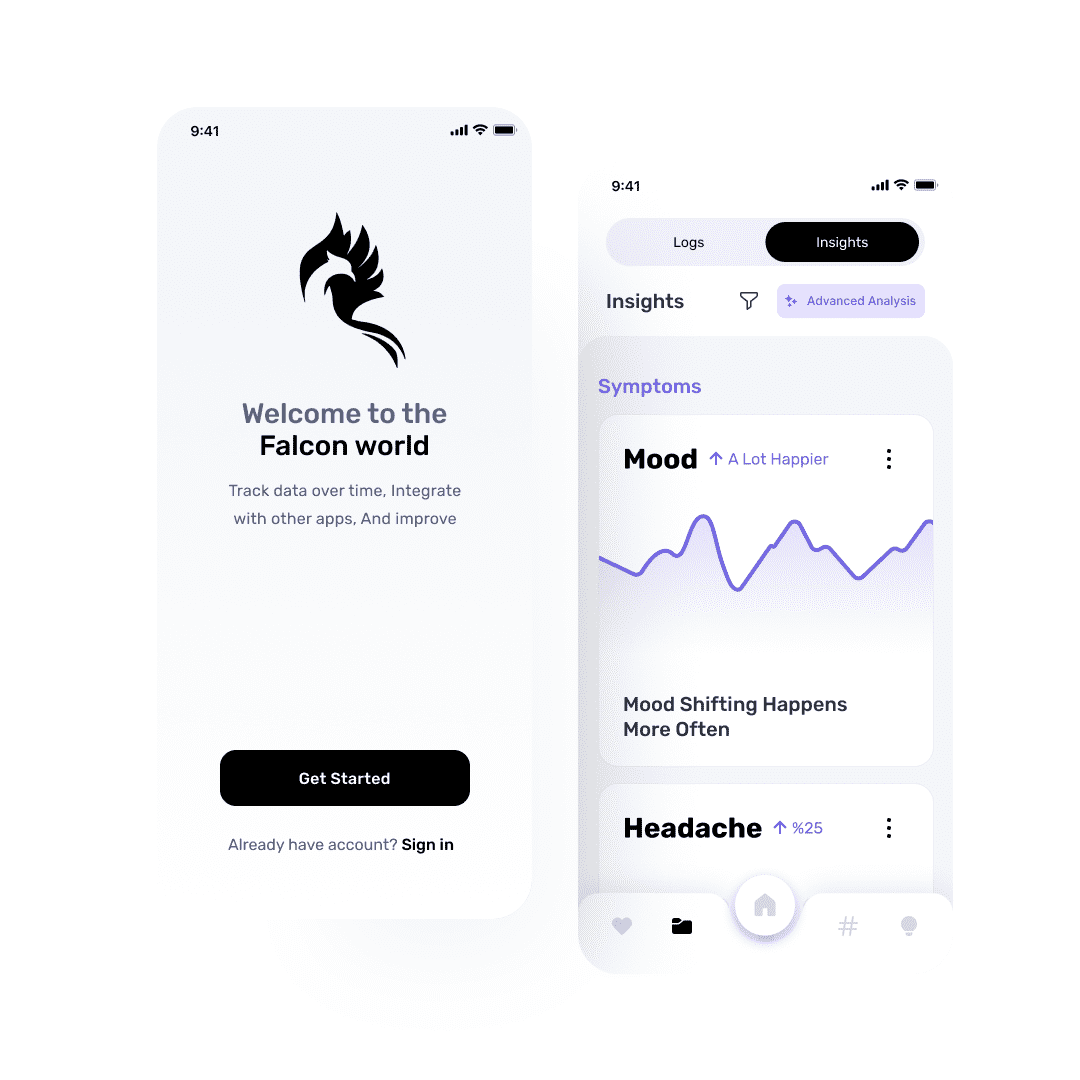
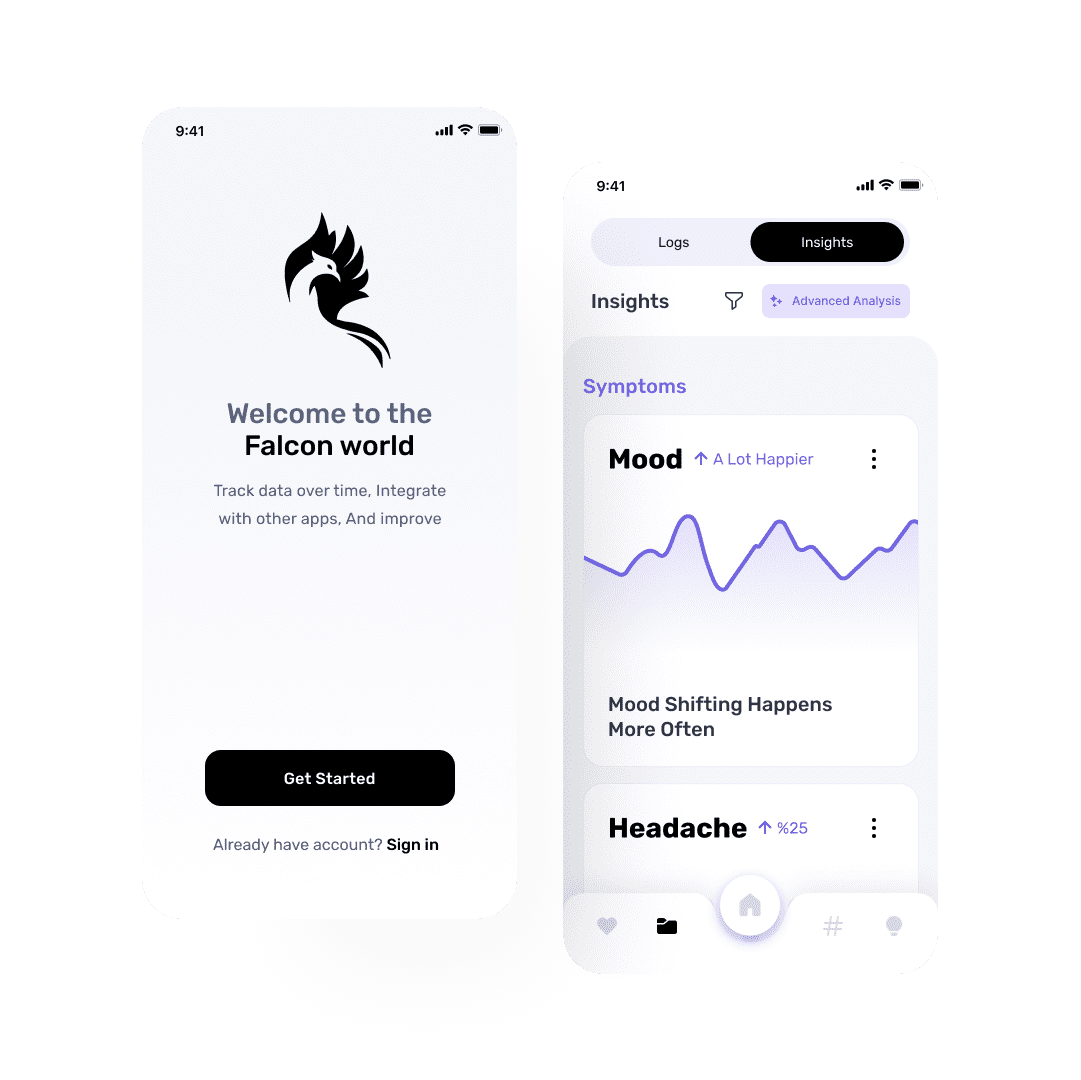
Change image sizes

diff --git a/src/screens/Home/Hero/Hero.module.sass b/src/screens/Home/Hero/Hero.module.sass
@@ -54,24 +54,24 @@
 
 .gallery
     position: absolute
-    top: 50%
+    top: 43%
     right: calc(50% - 700px)
-    width: 750px
+    width: 550px
     transform: translateY(-58%)
     pointer-events: none
     +x
         right: calc(50% - 600px)
-        width: 750px
+        width: 550px
     +d
         right: calc(50% - 600px)
-        width: 750px
+        width: 550px
     +t
         right: calc(50% - 575px)
     +m
         position: relative
         top: auto
         right: auto
-        left: -122px
+        left: -12px
         margin: 0 auto
         transform: translate(0,0)
         pointer-events: all
@@ -79,7 +79,7 @@
         position: relative
         top: auto
         right: auto
-        left: -174px
+        left: -24px
         margin: 0 auto
         transform: translate(0,0)
         pointer-events: all
@@ -87,7 +87,7 @@
         position: relative
         top: auto
         right: auto
-        left: -204px
+        left: -49px
         margin: 0 auto
         transform: translate(0,0)
         pointer-events: all
@@ -95,7 +95,7 @@
         position: relative
         top: auto
         right: auto
-        left: -214px
+        left: -49px
         margin: 0 auto
         transform: translate(0,0)
         pointer-events: all
@@ -122,7 +122,7 @@
     &:not(:first-child)
         position: absolute
     img
-        width: 120%
+        width: 100%
 
 
 .category

diff --git a/src/components/Intro/index.js b/src/components/Intro/index.js
@@ -11,13 +11,7 @@ const Intro = ({ scrollToRef }) => {
             <div className={cn("container", styles.container)}>
                 <div className={styles.gallery}>
                     <ScrollParallax className={styles.preview} animateIn="fadeInUp">
-                        <Image
-                            srcSet="/images/content/app-tracker.png 2x"
-                            src="/images/content/app-tracker.png"
-                            alt="Bag"
-                            width={570}
-                            height={570}
-                        />
+                        <Image src="/images/content/app-tracker.png" alt="app tracker" width={512} height={512} />
                     </ScrollParallax>
                 </div>
                 <div className={styles.wrap}>

diff --git a/src/components/Intro/Intro.module.sass b/src/components/Intro/Intro.module.sass
@@ -40,7 +40,7 @@
     position: absolute
     top: 43%
     right: calc(50% - 541px)
-    width: 584px
+    width: 542px
     background-color: rgba(240, 240, 240, 1)
     +dark
         background: #4e4e4e
@@ -48,7 +48,7 @@
     pointer-events: none
     +d
         right: calc(50% - 540px)
-        width: 584px
+        width: 542px
         transform: translateY(-44%)
     +t
         right: calc(50% - 515px)
@@ -70,14 +70,14 @@
         position: relative
         top: auto
         right: auto
-        left: -68px
+        left: -36px
         margin: 96px auto 24px
         transform: translateY(0)
     +s
         position: relative
         top: auto
         right: auto
-        left: -105px
+        left: -100px
         margin: 96px auto 24px
         transform: translateY(0)
 

diff --git a/src/screens/Home/Hero/index.js b/src/screens/Home/Hero/index.js
@@ -35,7 +35,7 @@ const Hero = ({ scrollToRef }) => {
                 />
                 <div className={styles.gallery}>
                     <div className={styles.preview}>
-                        <Image width={2020} height={660} src="/images/content/form-1.png" alt="Ball" />
+                        <Image width={400} height={504} src="/images/content/form-1.png" alt="intro" priority />
                     </div>
                 </div>
             </div>

diff --git a/src/screens/Contact/Hero/Hero.module.sass b/src/screens/Contact/Hero/Hero.module.sass
@@ -168,4 +168,4 @@
 
 .btns
     display: flex
-    justify-content: end
+    justify-content: flex-end
